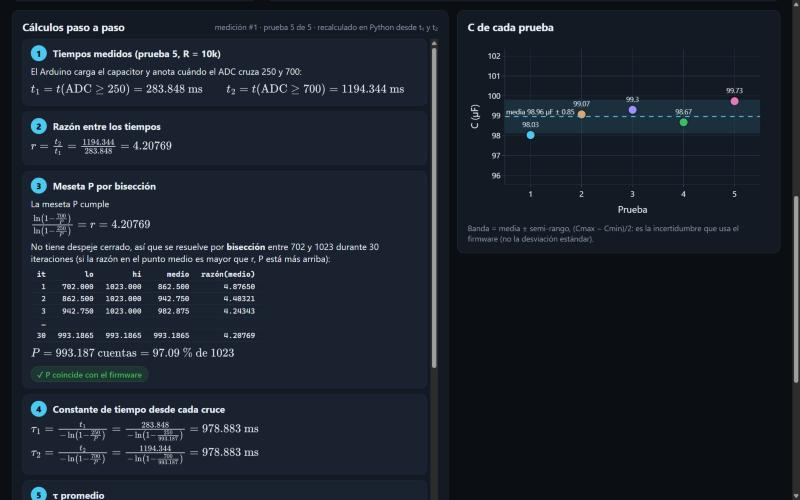
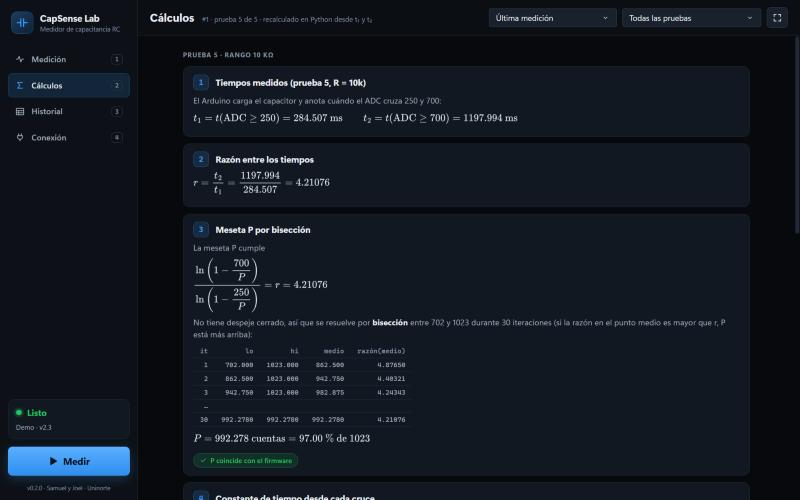
Documenta la aplicación de escritorio y publica la versión 0.3.0

Changed region(s): [[0.0, 0.0, 1.0, 1.0], [0.7812, 0.03, 0.875, 0.06]]

diff --git a/src/capsense/__init__.py b/src/capsense/__init__.py
@@ -1,3 +1,3 @@
 """CapSense Lab: dashboard del medidor de capacitancia RC con Arduino Uno."""
 
-__version__ = "0.2.0"
+__version__ = "0.3.0"

diff --git a/README.md b/README.md
@@ -1,10 +1,10 @@
 # CapSense Lab
 
-Medidor de capacitancia RC (1 µF a 1000 µF) con Arduino Uno, y un dashboard en Python para mostrar en proyector el resultado, la curva de carga y los cálculos paso a paso.
+Medidor de capacitancia RC (1 µF a 1000 µF) con Arduino Uno, y una aplicación de escritorio en Python para mostrar en proyector el resultado, la curva de carga y los cálculos paso a paso.
 
 Proyecto de Samuel y Joel (Ingeniería de Sistemas, Universidad del Norte) para la GeoExpo de Física.
 
-![Dashboard en modo demo: resultado de 100.45 µF y curva de carga con t1, t2, τ y la meseta](docs/img/dashboard.jpg)
+![Aplicación en modo demo: barra lateral, resultado de 100.33 µF, curva de carga y C de cada prueba](docs/img/dashboard.jpg)
 
 ## Qué muestra
 
@@ -15,9 +15,13 @@ Proyecto de Samuel y Joel (Ingeniería de Sistemas, Universidad del Norte) para 
 
 ![Panel de cálculos paso a paso](docs/img/pasos.jpg)
 
+## Diseño
+
+El estilo sigue la skill [ui-ux-pro-max](https://github.com/nextlevelbuilder/ui-ux-pro-max-skill): **Dark Mode (OLED) + Data-Dense Dashboard + Real-Time Monitoring**, con el par tipográfico *Dashboard Data* (sans para etiquetas, monoespaciada para los valores), íconos SVG en vez de emojis, estados con texto además de color, foco visible con teclado y respeto por `prefers-reduced-motion`.
+
 ## Instalación
 
-Requiere Python 3.10 o más reciente.
+Requiere Python 3.10 o más reciente. En Windows la ventana usa WebView2 (incluido en Windows 11).
 
 ```bash
 git clone https://github.com/samuelpabuena2008/capsense-lab.git
@@ -31,11 +35,21 @@ En Linux o macOS, activa el entorno con `source .venv/bin/activate`.
 
 ## Uso
 
+Doble clic en **`CapSense Lab.pyw`**: se abre la aplicación en su propia ventana (sin consola ni navegador). También:
+
 ```bash
 python -m capsense --demo
 ```
 
-Abre el navegador en http://127.0.0.1:8050. Otras formas:
+La app tiene cuatro vistas en la barra lateral: **Medición**, **Cálculos**, **Historial** y **Conexión** (fuente de datos, simulador y consola serie). El estado del equipo y el botón **Medir** quedan siempre visibles.
+
+| Tecla | Acción |
+|---|---|
+| `M` | Medir |
+| `1` a `4` | Cambiar de vista |
+| `F11` | Pantalla completa (para el proyector) |
+
+Otras formas de arrancar:
 
 | Comando | Qué hace |
 |---|---|
@@ -43,9 +57,10 @@ Abre el navegador en http://127.0.0.1:8050. Otras formas:
 | `python -m capsense --port auto` | Arduino real, autodetecta el puerto. |
 | `python -m capsense --port COM3 --baud 9600` | Arduino con el firmware v2.1. |
 | `python -m capsense --replay logs/sesion_..._serial.log` | Reproduce una sesión guardada (log serial o `*_pruebas.csv`). |
-| `python -m capsense --host 0.0.0.0` | Permite abrir el dashboard desde otro equipo de la red. |
+| `python -m capsense --navegador` | Abre en el navegador en vez de la ventana de la app. |
+| `python -m capsense --servidor --host 0.0.0.0` | Solo el servidor, para abrirlo desde otro equipo de la red. |
 
-Todo eso también se elige desde la barra superior del dashboard. Opciones: `python -m capsense --help`.
+Todo eso también se elige en la vista **Conexión**. Tras `pip install -e .` existe además el comando `capsense-app`, que abre la ventana sin consola. Opciones: `python -m capsense --help`.
 
 ### En el Arduino
 
@@ -62,7 +77,8 @@ src/capsense/
 ├── domain/      modelos, física (réplica del firmware) y pasos de cálculo — sin serial ni UI
 ├── io/          parser del protocolo y fuentes: serial, simulador, replay
 ├── services/    sesión (estado, hilo seguro) y logs/exportación
-└── ui/          Dash: layout, callbacks, gráficas, fórmulas, estilo
+├── ui/          Dash: layout, callbacks, gráficas, fórmulas, estilo, íconos SVG
+└── desktop.py   ventana de escritorio (pywebview) con el servidor en un hilo
 firmware/        capsense_lab_v2_1, v2_2 y v2_3
 tests/           unit/, integration/, fixtures/
 docs/            arquitectura, protocolo serie, cálculos
@@ -91,7 +107,8 @@ ruff check src tests
 | El botón Medir está apagado | Con la v2.1, en replay o mientras mide no se puede. Usa START en el Arduino. |
 | Aviso de calibración distinta | `config/capsense.toml` y el firmware tienen valores diferentes. Corrige uno de los dos. |
 | Se soltó el cable | El dashboard reintenta solo (1, 2, 4, 8 s). La medición en curso queda marcada como interrumpida. |
-| Sin internet en la expo | No hace falta: Dash, Plotly y MathJax se sirven desde tu PC. |
+| Sin internet en la expo | No hace falta: Dash, Plotly, MathJax y las fuentes (Segoe UI Variable, Cascadia Code) están en tu PC. |
+| La ventana no abre | Falta WebView2 (viene con Windows 11 y Edge). La app cae sola al navegador; también puedes usar `--navegador`. |
 | Fórmulas sin formato | Recarga la página (F5). |
 
 ## Exactitud

diff --git a/CHANGELOG.md b/CHANGELOG.md
@@ -2,6 +2,14 @@
 
 Formato basado en [Keep a Changelog](https://keepachangelog.com/es-ES/1.1.0/).
 
+## [0.3.0] - 2026-10-29
+
+### Aplicación de escritorio
+- Abre en su propia ventana (pywebview + WebView2) en vez del navegador. `CapSense Lab.pyw` y el comando `capsense-app` la lanzan sin consola. `--navegador` y `--servidor` conservan los modos anteriores.
+- Nuevo diseño con la skill ui-ux-pro-max: barra lateral con cuatro vistas (Medición, Cálculos, Historial, Conexión), estado del equipo y botón Medir siempre visibles, vista de medición sin scroll a 1440×900.
+- Tipografía Segoe UI Variable + Cascadia Code (sin descargas), íconos SVG propios, barra de progreso durante la medición, avisos como toasts, foco visible y movimiento reducido.
+- Atajos: M medir, 1–4 vistas, F11 pantalla completa.
+
 ## [0.2.0] - 2026-10-29
 
 ### Firmware v2.3

diff --git a/docs/arquitectura.md b/docs/arquitectura.md
@@ -52,6 +52,10 @@ stateDiagram-v2
 
 Con el firmware v2.1 no hay `#PRUEBA_INI`: el estado pasa a *Midiendo* con la cabecera de la tabla y a *Listo* con la línea CSV del resultado.
 
+## Ventana de escritorio
+
+`desktop.py` levanta el servidor de Dash con `werkzeug.make_server` en un hilo, solo en `127.0.0.1` y en un puerto libre, y abre una ventana de pywebview (WebView2 en Windows). Al cerrar la ventana se apaga el servidor, se suelta el puerto serie y se cierran los logs. La página puede llamar a Python con `window.pywebview.api` (por ejemplo, pantalla completa). Con `--navegador` o `--servidor` se usa el servidor de Dash de siempre.
+
 ## Archivos que genera una sesión
 
 En `logs/` (fuera de git):
